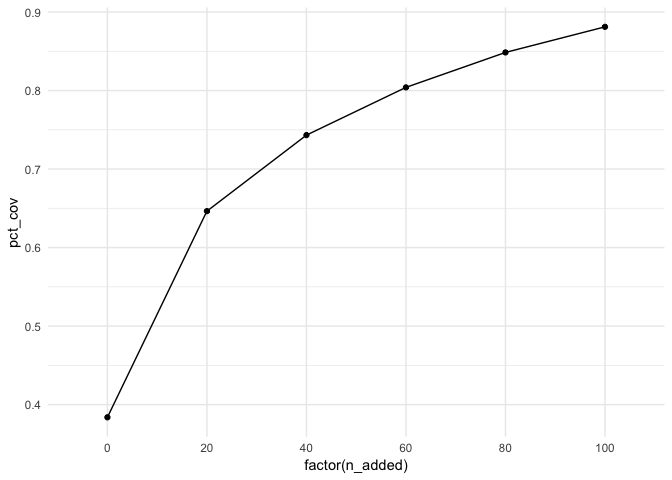
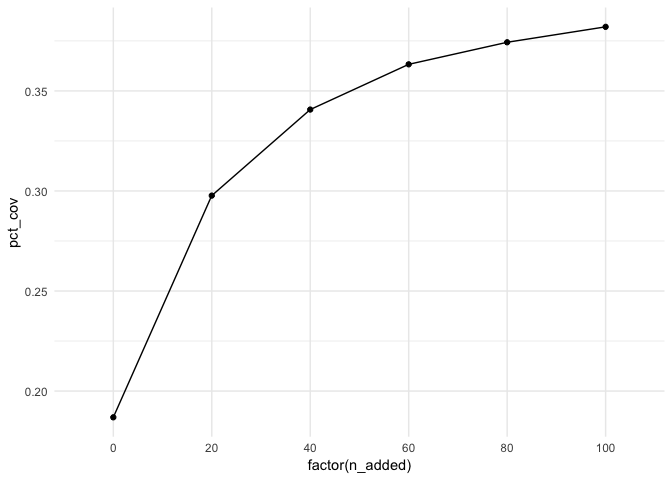
change york to york_crime, fixing #66

diff --git a/README.md b/README.md
@@ -68,7 +68,6 @@ of the listed buildings with a grade of I. We will call this dataset
 
 library(maxcovr)
 library(dplyr)
-#> Warning: package 'dplyr' was built under R version 3.5.1
 #> 
 #> Attaching package: 'dplyr'
 #> The following objects are masked from 'package:stats':
@@ -110,14 +109,14 @@ dat_dist <- york_selected %>% nearest(york_crime)
 
 head(dat_dist)
 #> # A tibble: 6 x 22
-#>   to_id nearest_id distance category  persistent_id   date  lat_to long_to
-#>   <dbl>      <dbl>    <dbl> <chr>     <chr>           <chr>  <dbl>   <dbl>
-#> 1     1         66    166.  anti-soc… 62299914865f07… 2016…   54.0   -1.08
-#> 2     2         48   2087.  anti-soc… 4e34f53d247f23… 2016…   54.0   -1.12
-#> 3     3         55     68.2 anti-soc… 2a0062f3dfac81… 2016…   54.0   -1.08
-#> 4     4         11    286.  anti-soc… eb53e09ae46a0f… 2016…   54.0   -1.09
-#> 5     5         25    536.  anti-soc… 6139f131b7243f… 2016…   54.0   -1.08
-#> 6     6         20    160.  anti-soc… d8de26d5af47ef… 2016…   54.0   -1.08
+#>   to_id nearest_id distance category persistent_id date  lat_to long_to
+#>   <dbl>      <dbl>    <dbl> <chr>    <chr>         <chr>  <dbl>   <dbl>
+#> 1     1         66    166.  anti-so… 62299914865f… 2016…   54.0   -1.08
+#> 2     2         48   2087.  anti-so… 4e34f53d247f… 2016…   54.0   -1.12
+#> 3     3         55     68.2 anti-so… 2a0062f3dfac… 2016…   54.0   -1.08
+#> 4     4         11    286.  anti-so… eb53e09ae46a… 2016…   54.0   -1.09
+#> 5     5         25    536.  anti-so… 6139f131b724… 2016…   54.0   -1.08
+#> 6     6         20    160.  anti-so… d8de26d5af47… 2016…   54.0   -1.08
 #> # ... with 14 more variables: street_id <chr>, street_name <chr>,
 #> #   context <chr>, id <chr>, location_type <chr>, location_subtype <chr>,
 #> #   outcome_status <chr>, long_nearest <dbl>, lat_nearest <dbl>,
@@ -195,7 +194,7 @@ mc_20 <- max_coverage(existing_facility = york_selected,
                       distance_cutoff = 100)
 )
 #>    user  system elapsed 
-#>   1.050   0.119   1.231
+#>   1.110   0.122   1.306
 ```
 
 `max_coverage` actually returns a dataframe of lists.
@@ -249,12 +248,12 @@ system.time(
 map_mc_model <- map_df(.x = n_add_vec,
                        .f = ~max_coverage(existing_facility = york_selected,
                                           proposed_facility = york_unselected,
-                                          user = york,
+                                          user = york_crime,
                                           distance_cutoff = 100,
                                           n_added = .))
 )
 #>    user  system elapsed 
-#>  30.365   0.734  31.198
+#>   4.743   0.347   5.137
 ```
 
 This returns a list of dataframes, which we can bind together like so:
